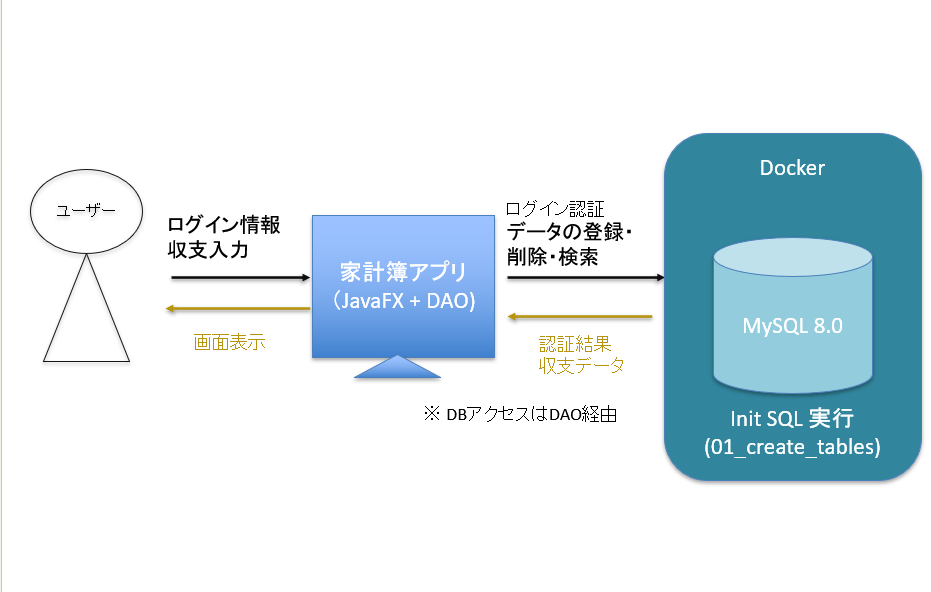
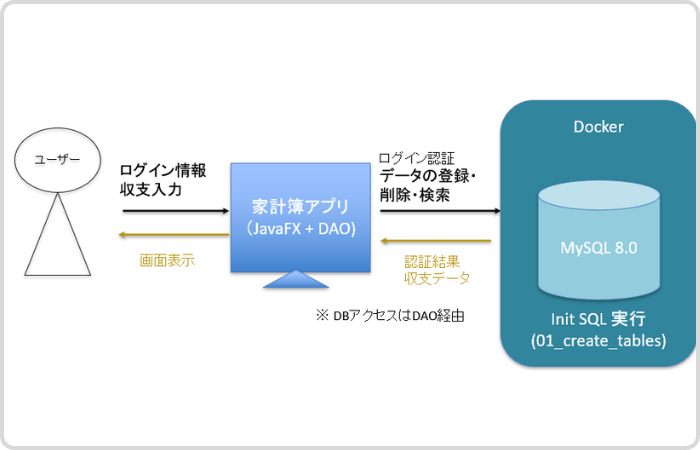
画像編集

diff --git a/README.md b/README.md
@@ -42,7 +42,7 @@ Java 11 以降、JavaFX は JDK に同梱されていません。
 
 ## アプリ全体構成
 
-<img src="./screenshots/dfd.png"width="700"style="border-radius: 12px; box-shadow: 0 4px 12px rgba(0,0,0,0.15); padding: 8px; background: #fff;">
+<img src="./screenshots/dfd.png"width="700">
 
 JavaFX アプリから DAO を介して MySQL(Docker)へアクセスする構成です。  
 DB 初期化は SQL スクリプトで自動実行されます。
@@ -51,7 +51,7 @@ DB 初期化は SQL スクリプトで自動実行されます。
 
 ### ER 図
 
-<img src="./screenshots/erd.png" width="600"style="border-radius: 12px; box-shadow: 0 4px 12px rgba(0,0,0,0.15); padding: 8px; background: #fff;">
+<img src="./screenshots/erd.png" width="600">
 
 ユーザと収支データは **1 対 多** の関係です。
 
@@ -59,7 +59,7 @@ DB 初期化は SQL スクリプトで自動実行されます。
  
 ### DAO構造図
 
-<img src="./screenshots/relationship.png" width="600"style="border-radius: 12px; box-shadow: 0 4px 12px rgba(0,0,0,0.15);padding: 8px; background: #fff;">
+<img src="./screenshots/relationship.png" width="600">
 
 - `UsersDAO`：ログイン認証、ユーザー登録、存在確認  
 - `TransactionDAO`：収支データの取得・追加・削除 
@@ -70,7 +70,7 @@ DB 初期化は SQL スクリプトで自動実行されます。
 
 ### ログイン画面
 
-<img src="./screenshots/login.png" width="450"style="border-radius: 12px; box-shadow: 0 4px 12px rgba(0,0,0,0.15); padding: 8px;background: #fff;">
+<img src="./screenshots/login.png" width="450">
 
 ユーザー名とパスワードを入力してログインします。
 
@@ -79,7 +79,7 @@ DB 初期化は SQL スクリプトで自動実行されます。
 
 ### 家計簿画面
 
-<img src="./screenshots/input.png" width="700" style="border-radius: 12px; box-shadow: 0 4px 12px rgba(0,0,0,0.15); padding: 8px; background: #fff;">
+<img src="./screenshots/input.png" width="700">
 
 日付・カテゴリ・金額・メモを入力して登録できます。
 収支データの一覧表示、追加、削除ができます。
